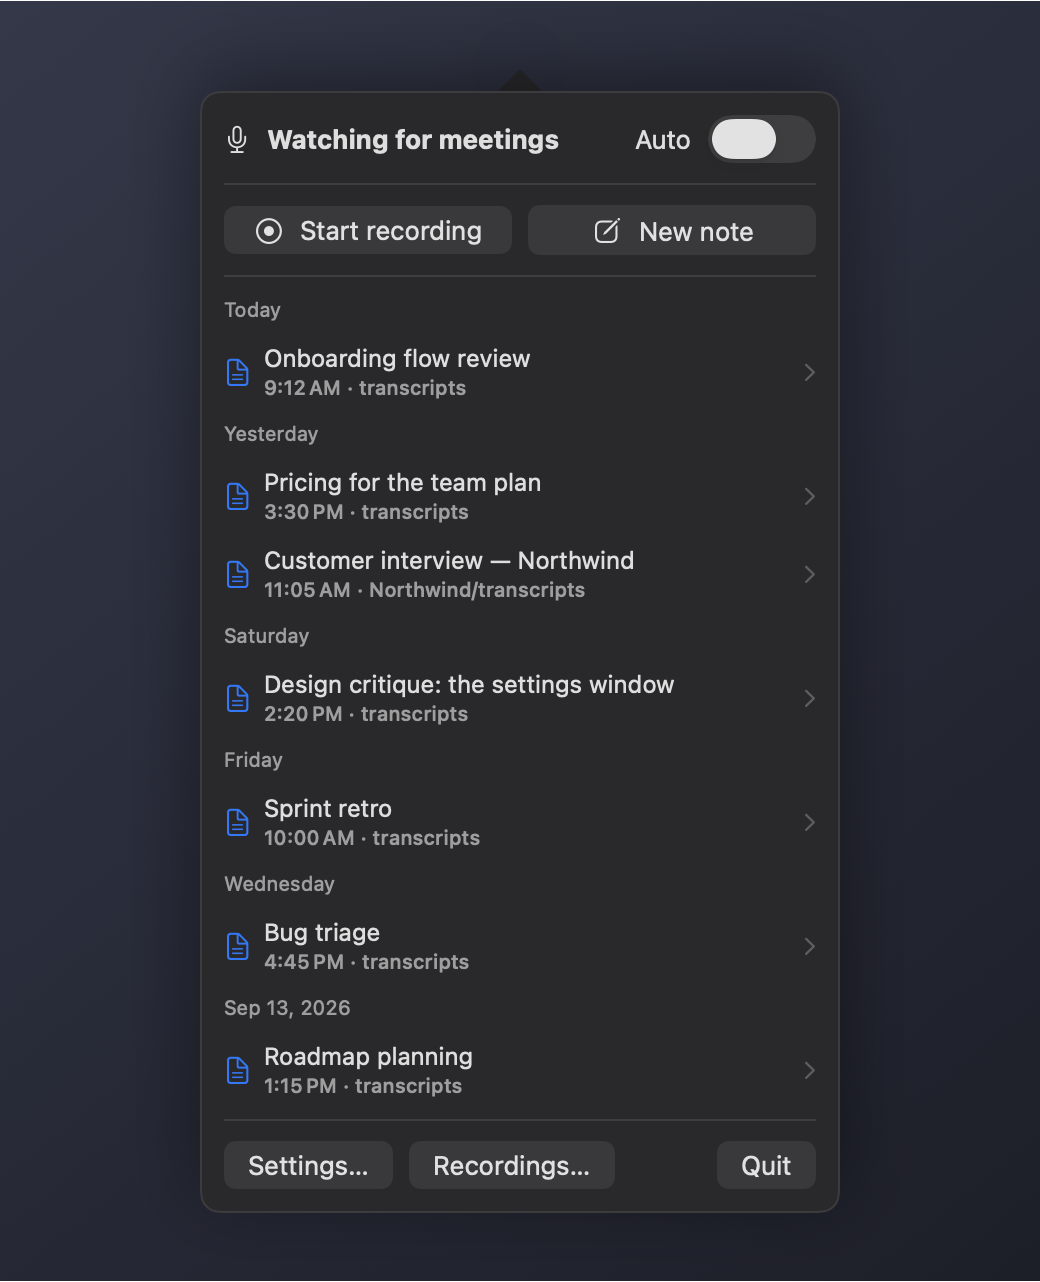
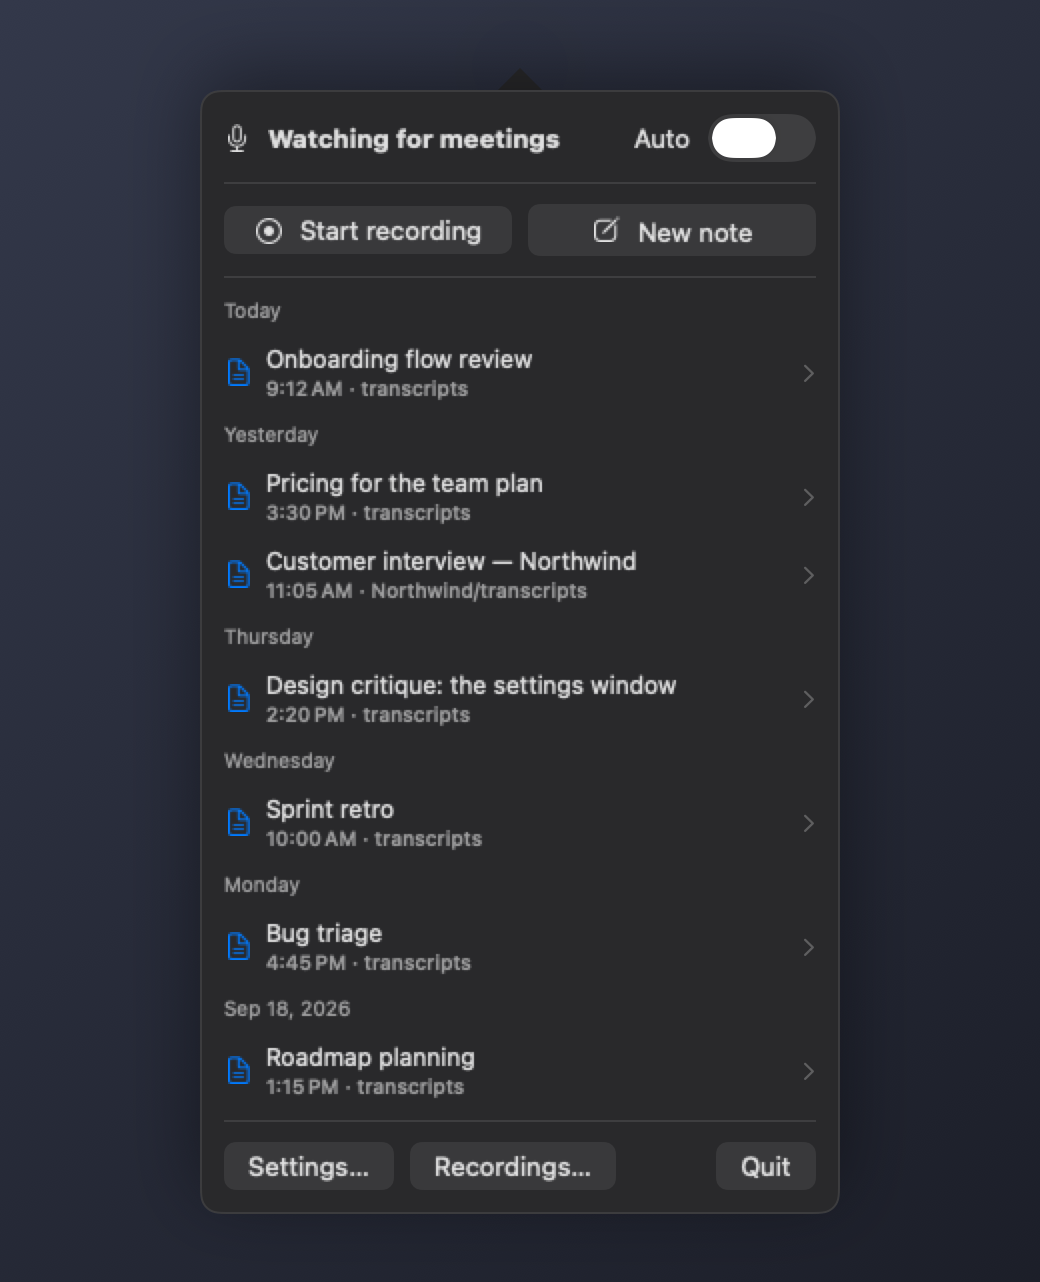
Fix screenshot sidebar contrast and prepare matching store artwork

diff --git a/scripts/store-artwork/mac.html b/scripts/store-artwork/mac.html
@@ -1,0 +1,16 @@
+<!doctype html>
+<html lang="en"><meta charset="utf-8"><meta name="viewport" content="width=device-width,initial-scale=1">
+<title>Transcripts — Mac App Store visual refresh</title>
+<style>
+*{box-sizing:border-box}body{margin:0;background:#e8e9ec;color:#171b27;font-family:-apple-system,BlinkMacSystemFont,sans-serif}header{max-width:1120px;margin:60px auto 36px;padding:0 24px}header h1{font-size:36px;letter-spacing:-1.4px;margin-bottom:12px}header p{max-width:820px;line-height:1.65;color:#50596b}main{max-width:1440px;margin:auto;padding:24px}.frame{width:100%;aspect-ratio:1.6;position:relative;overflow:hidden;margin-bottom:40px;container-type:inline-size;background:#101520;color:#f6f4ef}.slide{position:absolute;inset:0;background:radial-gradient(ellipse at 85% 55%,#314862 0,transparent 65%),linear-gradient(135deg,#131925,#090e17)}.brand{position:absolute;left:5.5%;top:7%;display:flex;align-items:center;gap:1cqw;font-size:1.5cqw;font-weight:600}.wave{display:flex;gap:.25cqw;align-items:center;height:2.4cqw}.wave i{display:block;width:.25cqw;background:#70d8c8;border-radius:1cqw}.wave i:nth-child(1),.wave i:nth-child(5){height:35%}.wave i:nth-child(2),.wave i:nth-child(4){height:65%}.wave i:nth-child(3){height:100%}.copy{position:absolute;left:5.5%;top:30%;width:38%;z-index:2}h2{font-size:5.2cqw;line-height:1.02;letter-spacing:-.23cqw;margin:0 0 2.2cqw;font-weight:650}h2 em{font-style:normal;color:#87e1d2}.copy p{font-size:1.75cqw;line-height:1.48;color:#b7c4d5;margin:0;max-width:31cqw}.foot{position:absolute;left:5.5%;bottom:7%;font-size:1.1cqw;letter-spacing:.12cqw;color:#b7c4d5}.num{position:absolute;right:5.5%;bottom:7%;font-size:1.1cqw;color:#b7c4d5}.product{position:absolute;right:5%;top:21%;width:49%;height:65%;display:flex;align-items:center;justify-content:center}.product img{display:block;max-width:100%;max-height:100%;object-fit:contain;box-shadow:0 2cqw 5cqw #0008;border-radius:1cqw}.menu .product{top:9%;height:80%;right:7%;width:40%}.wide .copy{top:22%;width:80%}.wide h2{font-size:4.5cqw;margin-bottom:1.2cqw}.wide .copy p{max-width:80cqw}.wide .product{top:44%;height:41%;right:9%;width:82%}.document .copy{width:36%}.document .product{top:20%;height:65%;width:51%;right:4%}.document h2{font-size:4.5cqw}.light .slide{background:radial-gradient(ellipse at 80% 60%,#d6e5e0 0,transparent 70%),#f3f1eb;color:#172b32}.light h2 em{color:#267c70}.light .copy p,.light .foot,.light .num{color:#50656a}.light .wave i{background:#267c70}footer{max-width:1100px;margin:16px auto 60px;padding:0 24px;line-height:1.6;color:#50596b}a{color:inherit}@media print{header,footer{display:none}main{padding:0}.frame{break-after:page;margin:0}}
+
+/* V2: icon-led purple / black artwork. */
+body{background:#0a090e;color:#f5f2ff}header p,footer{color:#aaa3ba}.frame{background:#09080d}.slide{background:radial-gradient(ellipse at 85% 52%,#35204e 0,transparent 67%),linear-gradient(140deg,#131019,#050407)}h2 em{color:#b89aff}.copy p,.foot,.num{color:#bcb3cd}.brand{top:6%;gap:1.3cqw;font-size:1.7cqw}.app-icon{width:4.6cqw;height:4.6cqw;filter:drop-shadow(0 .6cqw 1.3cqw #0008)}.product img{box-shadow:none;border-radius:0;filter:drop-shadow(0 1.8cqw 2cqw #0009)}.desktop{position:absolute;background:radial-gradient(ellipse at 80% 22%,#623c91 0,#26183b 48%,#100c17 88%);border:1px solid #ffffff24;border-radius:1cqw;overflow:hidden;box-shadow:0 2cqw 5cqw #0008}.menu-desktop{right:4%;top:9%;width:49%;height:79%}.macbar{position:absolute;z-index:2;left:0;right:0;top:0;height:2.25cqw;background:#141019dc;border-bottom:1px solid #ffffff16;display:flex;align-items:center;justify-content:space-between;padding:0 1cqw;font-size:.76cqw;color:#eee9f6;white-space:nowrap}.leftmenus{display:flex;align-items:center;gap:.6cqw}.statusmark{position:absolute;left:calc(50% - .9cqw);width:1.8cqw;height:100%;display:flex;align-items:center;justify-content:center;gap:.15cqw;background:#ffffff17;border-radius:.25cqw}.statusmark i{width:.12cqw;height:.9cqw;border-radius:1cqw;background:#eee}.statusmark i:nth-child(2),.statusmark i:nth-child(4){height:.65cqw}.statusmark i:nth-child(5){height:.4cqw}.popover{position:absolute;left:50%;transform:translateX(-50%);top:0;width:auto;height:100%;max-width:none}.menu .copy{width:40%;top:32%}.menu h2{font-size:4.8cqw}.overlay-desktop{left:28%;right:6%;top:42%;height:45%}.overlay-panel{position:absolute;right:6%;top:16%;height:76%;width:auto;filter:drop-shadow(0 1.2cqw 1.5cqw #0009)}.wide .copy{top:21%;width:89%}.wide h2{font-size:4.3cqw}.document .product{right:2%;width:56%;height:70%;top:18%}.document .copy{width:35%}.document .copy p{font-size:1.65cqw}.document h2{font-size:4.4cqw}
+.popover{width:64%;height:92%;top:3%;overflow:visible} </style>
+
+<main>
+<section class="frame menu" id="01-menu"><div class="slide"><div class="brand"><img class="app-icon" src="../../docs/assets/icon.png" alt="Transcripts app icon">Transcripts</div><div class="copy"><h2>The call starts.<br><em>Your notes<br>start here.</em></h2><p>Record from your menu bar.<br>Get a prompt when a call begins.</p></div><div class="desktop menu-desktop"><div class="macbar"><span class="leftmenus"><b style="font-size:1.15cqw"></b><b>Finder</b> File &nbsp; Edit &nbsp; View</span><span class="statusmark"><i></i><i></i><i></i><i></i><i></i></span><span class="rightmenus">⌕ &nbsp; ▰ &nbsp; 9:41 AM</span></div><svg class="popover" viewBox="200 68 640 1250" role="img" aria-label="Transcripts recording menu"><defs><clipPath id="menu-shape"><rect x="200" y="90" width="640" height="1225" rx="22"/><path d="M500 92L520 68L540 92Z"/></clipPath></defs><image href="../../docs/guide/images/menu-recording.webp" width="1040" height="1380" clip-path="url(#menu-shape)"/></svg></div><div class="foot">MADE FOR MAC</div><div class="num">01 / 04</div></div></section>
+<section class="frame wide" id="02-overlay"><div class="slide"><div class="brand"><img class="app-icon" src="../../docs/assets/icon.png" alt="Transcripts app icon">Transcripts</div><div class="copy"><h2>Keep up with <em>the conversation.</em></h2><p>Live text and answers from the call, close at hand.</p></div><div class="desktop overlay-desktop"><div class="macbar"><span class="leftmenus"><b style="font-size:1.15cqw"></b><b>Finder</b> File &nbsp; Edit &nbsp; View &nbsp; Go &nbsp; Window &nbsp; Help</span><span class="rightmenus">▰ &nbsp; 9:41 AM</span></div><svg class="overlay-panel" viewBox="240 120 760 600" role="img" aria-label="Live meeting overlay with contextual answers"><defs><clipPath id="overlay-shape"><rect x="240" y="120" width="760" height="600" rx="38"/></clipPath></defs><image href="../../docs/guide/images/overlay.webp" width="1240" height="840" clip-path="url(#overlay-shape)"/></svg></div><div class="foot">WHILE YOU RECORD</div><div class="num">02 / 04</div></div></section>
+<section class="frame document" id="03-transcript"><div class="slide"><div class="brand"><img class="app-icon" src="../../docs/assets/icon.png" alt="Transcripts app icon">Transcripts</div><div class="copy"><h2>Read back<br><em>who said<br>what.</em></h2><p>Follow the transcript with speaker labels and timestamps.</p></div><div class="product"><img src="../../docs/guide/images/document-transcript.webp" alt="Meeting transcript with named speakers and timestamps"></div><div class="foot">A RECORD YOU CAN RETURN TO</div><div class="num">03 / 04</div></div></section>
+<section class="frame document" id="04-summary"><div class="slide"><div class="brand"><img class="app-icon" src="../../docs/assets/icon.png" alt="Transcripts app icon">Transcripts</div><div class="copy"><h2>Leave with<br><em>the next<br>steps.</em></h2><p>A summary and action items.<br>Saved as Markdown in your folder.</p></div><div class="product"><img src="../../docs/guide/images/document-summary.webp" alt="Meeting summary, decisions, and action items"></div><div class="foot">YOUR MEETING. YOUR FILES.</div><div class="num">04 / 04</div></div></section>
+</main></html>

diff --git a/Sources/TranscriptsMac/MenuBar/LibraryView.swift b/Sources/TranscriptsMac/MenuBar/LibraryView.swift
@@ -12,7 +12,7 @@ struct LibraryView: View {
         NavigationSplitView {
             List(selection: $controller.selectedRecordIDs) {
                 ForEach(controller.groupedByDay(controller.allRecents)) { group in
-                    Section(group.label) {
+                    Section {
                         ForEach(group.calls) { call in
                             if call.isSingle {
                                 row(call.items[0])
@@ -24,6 +24,9 @@ struct LibraryView: View {
                                 }
                             }
                         }
+                    } header: {
+                        Text(group.label)
+                            .foregroundStyle(DocCapture.isRequested ? Color(white: 0.65) : Color.secondary)
                     }
                 }
             }
@@ -149,8 +152,14 @@ private struct RecordingRow: View {
             VStack(alignment: .leading, spacing: 2) {
                 Text(item.isEmpty ? "No audio captured" : item.title)
                     .lineLimit(1)
-                    .foregroundStyle(item.isEmpty ? .secondary : .primary)
-                Text(subtitle).font(.caption).foregroundStyle(.secondary).lineLimit(1)
+                    .foregroundStyle(DocCapture.isRequested
+                        ? Color(white: item.isEmpty ? 0.65 : 0.92)
+                        : (item.isEmpty ? Color.secondary : Color.primary))
+                // Offscreen captures cannot composite sidebar vibrancy. Use its
+                // resolved dark-mode label color only in the capture process.
+                Text(subtitle).font(.caption)
+                    .foregroundStyle(DocCapture.isRequested ? Color(white: 0.65) : Color.secondary)
+                    .lineLimit(1)
             }
         }
         .padding(.vertical, 2)
@@ -189,8 +198,14 @@ private struct CallHeaderRow: View {
             VStack(alignment: .leading, spacing: 2) {
                 Text(call.allEmpty ? "No audio captured" : call.title)
                     .lineLimit(1)
-                    .foregroundStyle(call.allEmpty ? .secondary : .primary)
-                Text(subtitle).font(.caption).foregroundStyle(.secondary).lineLimit(1)
+                    .foregroundStyle(DocCapture.isRequested
+                        ? Color(white: call.allEmpty ? 0.65 : 0.92)
+                        : (call.allEmpty ? Color.secondary : Color.primary))
+                // Offscreen captures cannot composite sidebar vibrancy. Use its
+                // resolved dark-mode label color only in the capture process.
+                Text(subtitle).font(.caption)
+                    .foregroundStyle(DocCapture.isRequested ? Color(white: 0.65) : Color.secondary)
+                    .lineLimit(1)
             }
         }
         .padding(.vertical, 2)

diff --git a/Sources/TranscriptsMac/Support/DocCapture.swift b/Sources/TranscriptsMac/Support/DocCapture.swift
@@ -191,7 +191,12 @@ enum DocCapture {
         // TabView/Form/Toggle/Picker), unlike ImageRenderer which draws an
         // "unsupported" placeholder for AppKit-backed controls. All in-process,
         // no Screen Recording permission.
-        let hosting = NSHostingView(rootView: shot.view())
+        // Offscreen AppKit appearance does not reliably propagate into SwiftUI's
+        // sidebar hosting views. Pin the environment too, so primary/secondary
+        // row labels resolve against the same dark surface as native controls.
+        let hosting = NSHostingView(rootView: shot.view()
+            .environment(\.colorScheme, .dark)
+            .preferredColorScheme(.dark))
         hosting.appearance = NSAppearance(named: .darkAqua)
         hosting.frame = NSRect(origin: .zero, size: shot.size ?? hosting.fittingSize)
 
@@ -221,9 +226,19 @@ enum DocCapture {
         window.displayIfNeeded()
 
         let bounds = hosting.bounds
+        // Do not inherit the current display scale: a headless/remote run can
+        // report 1x and silently halve every published screenshot's resolution.
         guard bounds.width > 1, bounds.height > 1,
-              let rep = hosting.bitmapImageRepForCachingDisplay(in: bounds) else { return false }
-        hosting.cacheDisplay(in: bounds, to: rep)
+              let rep = NSBitmapImageRep(bitmapDataPlanes: nil,
+                  pixelsWide: Int((bounds.width * 2).rounded()),
+                  pixelsHigh: Int((bounds.height * 2).rounded()),
+                  bitsPerSample: 8, samplesPerPixel: 4, hasAlpha: true,
+                  isPlanar: false, colorSpaceName: .deviceRGB,
+                  bytesPerRow: 0, bitsPerPixel: 0) else { return false }
+        rep.size = bounds.size
+        hosting.effectiveAppearance.performAsCurrentDrawingAppearance {
+            hosting.cacheDisplay(in: bounds, to: rep)
+        }
 
         guard let png = rep.representation(using: .png, properties: [:]) else { return false }
         // A view that laid out but never drew comes back as one flat colour, and

diff --git a/site/index.html b/site/index.html
@@ -115,7 +115,7 @@
   <div class="app-gallery">
     <figure class="app-shot">
       <a class="screenshot-stage shot-1" href="/guide/images/menu-recording.webp" target="_blank" rel="noopener" aria-label="View recording menu screenshot at full size (opens a new tab)">
-        <img src="/guide/images/menu-recording.webp" alt="Record from your menu bar. Transcripts can prompt you when a call begins. You can also start a recording yourself." loading="lazy" width="1040" height="1380">
+        <img src="/guide/images/menu-recording.webp" alt="Record from your menu bar. Transcripts can prompt you when a call begins. You can also start a recording yourself." loading="lazy" width="1040" height="1384">
         <span class="expand-shot" aria-hidden="true">↗</span>
       </a>
       <figcaption><strong>Record from your menu bar.</strong> Transcripts can prompt you when a call begins. You can also start a recording yourself.</figcaption>

diff --git a/scripts/store-artwork/README.md b/scripts/store-artwork/README.md
@@ -1,0 +1,10 @@
+# App Store artwork
+
+The purple/black cards use native captures from invented meeting data.
+
+1. `just shots` rebuilds the Mac app in staging and renders guide screenshots.
+2. `just store-shots` captures iPhone and iPad using temporary simulators.
+3. `node scripts/store-artwork/render.cjs` composes all three families into `dist/store-artwork/`. It needs the `playwright` Node package and Microsoft Edge. Set `NODE_PATH` if Playwright is provided by an external runtime.
+4. Inspect the exported images, then run `just store-upload --dir dist/store-artwork` against editable drafts.
+
+The website uses the plain images in `docs/guide/images`, not these cards. The Mac template clips the native menu and overlay captures into drawn desktop context; it uses no retouched UI text. Keep its clip coordinates in sync if the native capture dimensions change.
